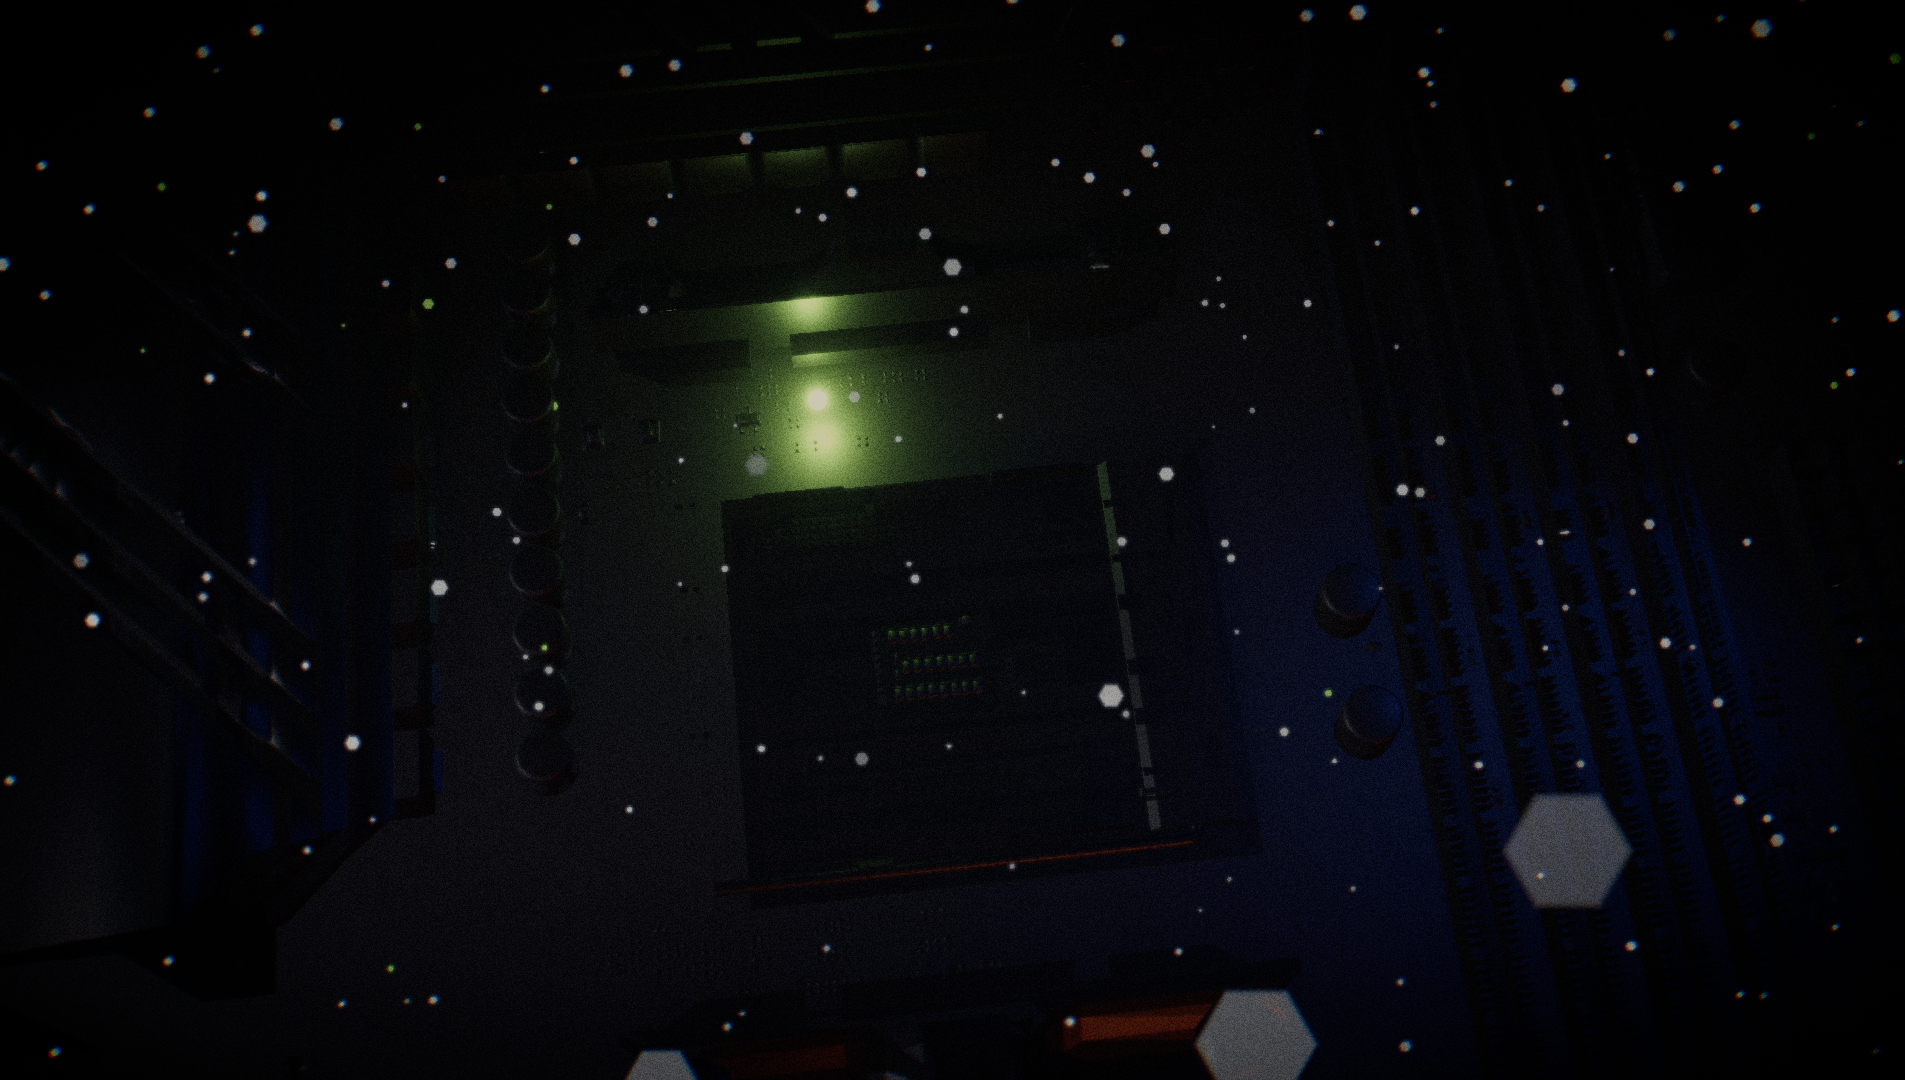
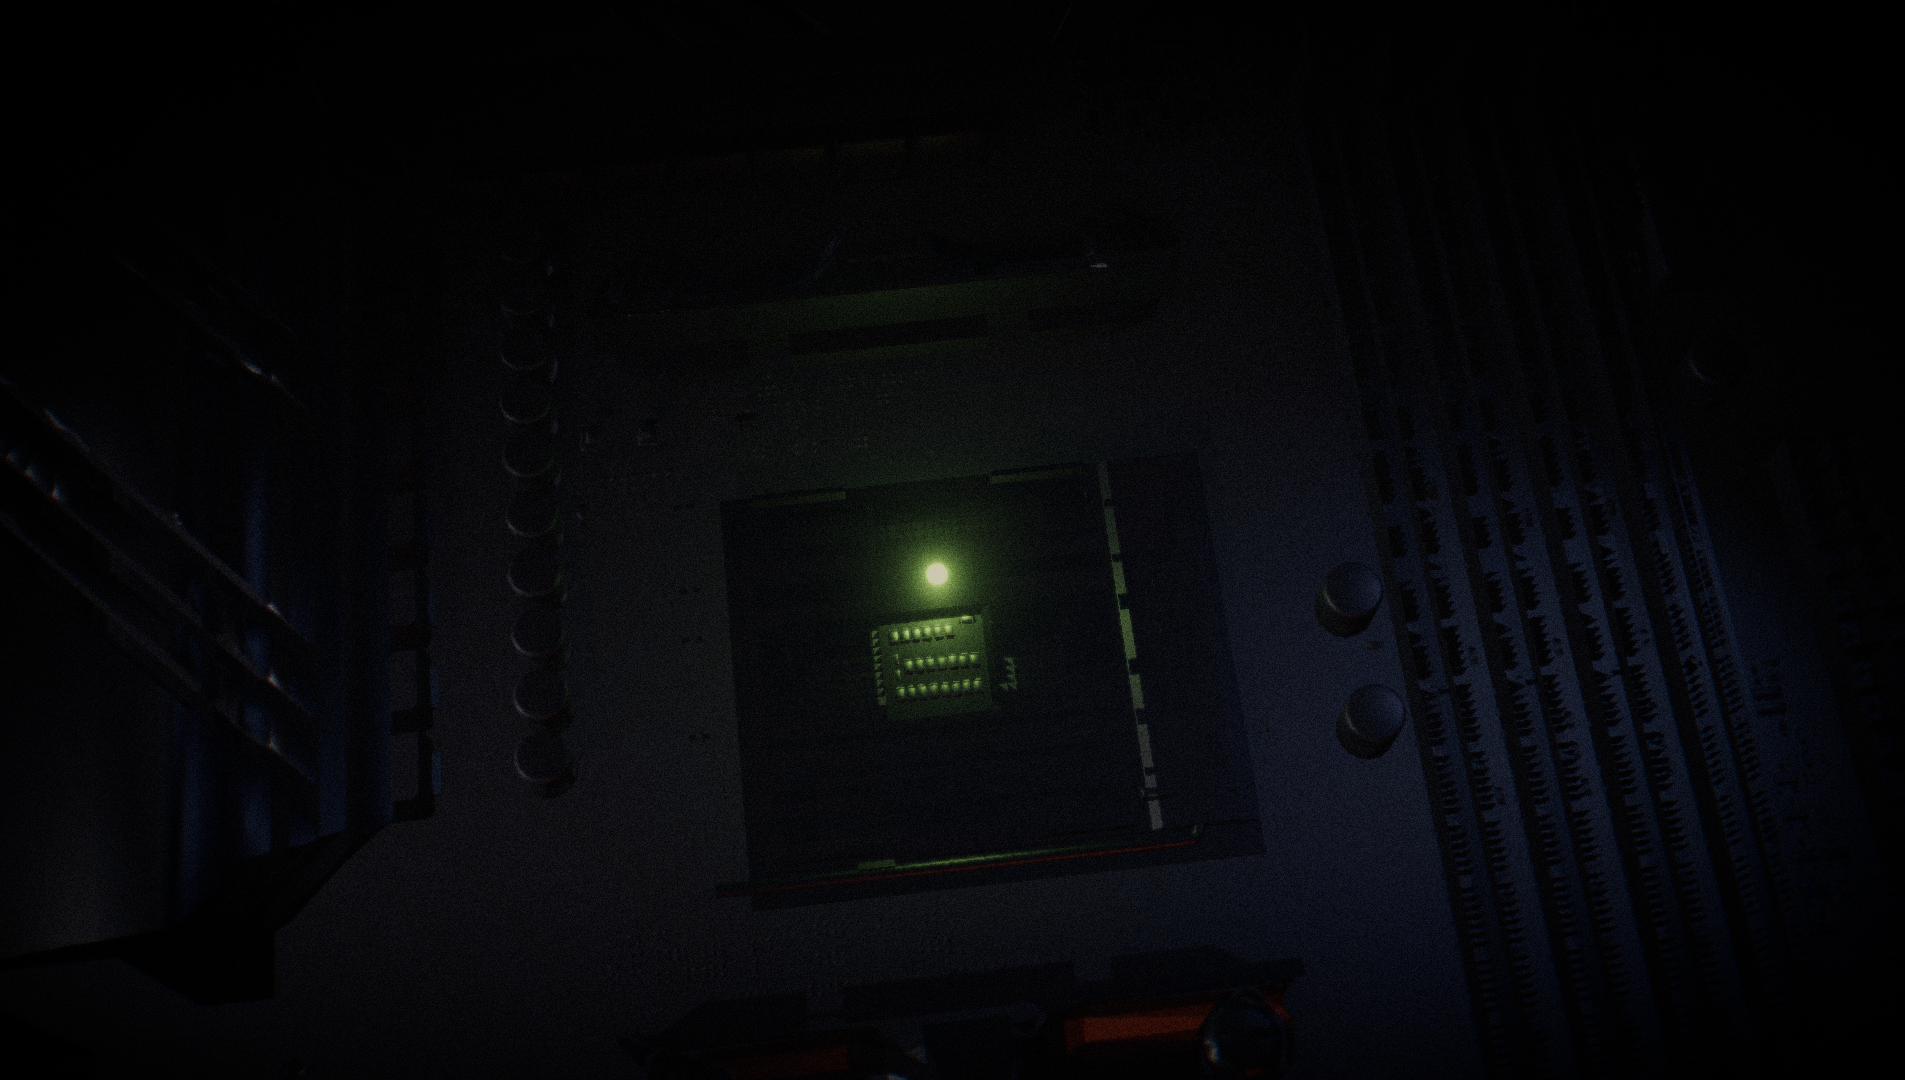
fix(scene): P3 gate fixes - dust restraint, act3 exposure, ember accent, GodRays proxy sun
Director gate 2026-07-27: near motes halved (size+alpha) with softer
edges + stronger defocus dimming + content-zone fade (screen-plan §8.9);
per-act exposure is now Director shot-table DATA (exp field, evidence
+0.5); fill desaturated (0x8f9fd8) and rim tightened (50/0.38) so the
glossy cluster stops returning saturated blue/orange specular (opus
pixel-forensics); Effects sections cache kills the 840 objs/s per-frame
allocation. GodRays: the pulse-head sun projecting edge-on at the
top-down pose NaN-wiped the frame (NaN ignores blend opacity) — replaced
with a proxy sun that follows the head while its projection is safe and
parks subpixel along the camera axis when not; act3/act4 restored. All
six act frames non-black with green signal.

diff --git a/components/scene/Effects.tsx b/components/scene/Effects.tsx
@@ -30,7 +30,7 @@ import {
   ToneMappingMode,
   VignetteEffect,
 } from 'postprocessing'
-import { useMemo } from 'react'
+import { useEffect, useMemo, useRef } from 'react'
 import * as THREE from 'three'
 import type { Director } from '../../lib/scene/director'
 import { GradeEffect, resolveActBlend } from '../../lib/scene/effects'
@@ -49,9 +49,25 @@ export function Effects({
 
   const smaa = useMemo(() => new SMAAEffect(), [])
 
+  // GodRays sun PROXY (execution-caught at the act-3 top-down, twice):
+  // when the real pulse-head projects edge-on/behind the camera the
+  // effect's screen-space math goes NaN and — because NaN ignores blend
+  // opacity — wipes the whole frame. The proxy follows the head while its
+  // projection is safe and parks far along the camera forward axis
+  // (subpixel, shaftless) when it is not, so the projection is ALWAYS
+  // finite.
+  const sunProxy = useMemo(() => {
+    const m = new THREE.Mesh(
+      new THREE.SphereGeometry(0.045, 12, 8),
+      new THREE.MeshBasicMaterial({ color: 0xa4eb53 })
+    )
+    m.frustumCulled = false
+    return m
+  }, [])
+
   const godRays = useMemo(() => {
     if (!(high && sun) || REDUCED) return null
-    return new GodRaysEffect(camera, sun, {
+    return new GodRaysEffect(camera, sunProxy, {
       density: 0.9,
       decay: 0.93,
       weight: 0.25,
@@ -60,7 +76,16 @@ export function Effects({
       kernelSize: KernelSize.SMALL,
       blur: true,
     })
-  }, [camera, sun, high])
+  }, [camera, sun, sunProxy, high])
+
+  const scene = useThree((s) => s.scene)
+  useEffect(() => {
+    if (!godRays) return
+    scene.add(sunProxy)
+    return () => {
+      scene.remove(sunProxy)
+    }
+  }, [godRays, scene, sunProxy])
 
   const dof = useMemo(() => {
     if (lean || REDUCED) return null
@@ -109,14 +134,47 @@ export function Effects({
     []
   )
 
+  // keys only change in buildKeys() — cache the section mapping by array
+  // identity instead of rebuilding 14 objects per frame (opus review)
+  const sectionsCache = useRef<{
+    keys: unknown
+    list: { p: number; section: string }[]
+  }>({ keys: null, list: [] })
+
+  const sunScratch = useRef(new THREE.Vector3())
+  const sunScratch2 = useRef(new THREE.Vector3())
+
   useFrame(() => {
+    if (godRays && sun) {
+      const v = sunScratch.current
+      sun.getWorldPosition(v)
+      // view-space depth: negative = in front of the camera
+      const vz = sunScratch2.current
+        .copy(v)
+        .applyMatrix4(camera.matrixWorldInverse).z
+      if (vz < -1.0) {
+        sunProxy.position.copy(v)
+      } else {
+        // park: far along the camera forward axis — projects to center,
+        // subpixel, no shafts, always finite
+        camera.getWorldDirection(sunScratch2.current)
+        sunProxy.position
+          .copy(camera.position)
+          .addScaledVector(sunScratch2.current, 120)
+      }
+    }
     // grade acts through the Director's keys (GRADE.md §2 table)
-    const sections = director.keys.map((k) => ({
-      p: k.p,
-      section: typeof k.at[1] === 'string' ? k.at[1] : 'contact',
-    }))
-    const blend = resolveActBlend(sections, scrollState.p)
-    grade.applyActBlend(blend)
+    if (sectionsCache.current.keys !== director.keys) {
+      sectionsCache.current = {
+        keys: director.keys,
+        list: director.keys.map((k) => ({
+          p: k.p,
+          section: typeof k.at[1] === 'string' ? k.at[1] : 'contact',
+        })),
+      }
+    }
+    const blend = resolveActBlend(sectionsCache.current.list, scrollState.p)
+    grade.applyActBlend(blend, director.exp)
     // the Director's continuous shot-table temp/sat own the final word
     grade.temp = director.temp
     grade.sat = director.sat

diff --git a/components/scene/DustField.tsx b/components/scene/DustField.tsx
@@ -33,6 +33,7 @@ export interface StratumCfg {
   sizeMin: number
   sizeMax: number
   opacity: number
+  zoneCull?: boolean
   speedMax: number
 }
 
@@ -60,19 +61,26 @@ export function dustStrata(low: boolean): StratumCfg[] {
     far,
     mid,
     {
+      // director gate 2026-07-27: near motes halved (size + alpha) — the
+      // corn model is bigger BUT softer AND dimmer; the board is the
+      // subject, dust is air
       count: 60,
       box: [8, 4, 8],
       center: [4, 2.4, 3.4],
-      sizeMin: 0.3,
-      sizeMax: 0.8,
-      opacity: 0.075,
+      sizeMin: 0.15,
+      sizeMax: 0.4,
+      opacity: 0.04,
       speedMax: 0.25,
+      zoneCull: true,
     },
   ]
 }
 
 const VERT = /* glsl */ `
 attribute float aSize;
+uniform vec4 uContentZone;
+uniform float uZoneCull;
+varying float vZoneFade;
 attribute float aPhase;
 attribute float aSpeed;
 attribute float aTint;
@@ -85,6 +93,7 @@ varying float vTwinkle;
 varying vec3 vWorld;
 varying float vDist;
 varying float vDefocus;
+varying float vZoneFade;
 
 // ashima 3D simplex noise (compact)
 vec4 permute(vec4 x) { return mod(((x * 34.0) + 1.0) * x, 289.0); }
@@ -152,6 +161,13 @@ void main() {
   gl_PointSize = size * uSizeScale / max(-mv.z, 0.001);
   vTint = aTint;
   gl_Position = projectionMatrix * mv;
+  // screen-plan §8.9: near motes fade to 0 over the content-safe zone
+  vec2 ndc = gl_Position.xy / max(gl_Position.w, 1e-4);
+  float inX = smoothstep(uContentZone.x - 0.15, uContentZone.x, ndc.x)
+            * (1.0 - smoothstep(uContentZone.z, uContentZone.z + 0.15, ndc.x));
+  float inY = smoothstep(uContentZone.y - 0.15, uContentZone.y, ndc.y)
+            * (1.0 - smoothstep(uContentZone.w, uContentZone.w + 0.15, ndc.y));
+  vZoneFade = 1.0 - uZoneCull * inX * inY;
 }
 `
 
@@ -180,7 +196,7 @@ void main() {
   vec2 c = gl_PointCoord - 0.5;
   float df = polygonDf(c) * 2.0;
   // edge softness scales with defocus: in-focus crisp, out-of-focus soft
-  float disc = smoothstep(0.5, 0.5 - mix(0.05, 0.3, vDefocus), df);
+  float disc = smoothstep(0.5, 0.5 - mix(0.06, 0.45, vDefocus), df);
   // brightness boost only inside the key shaft (hyperfocus motif)
   vec3 rel = vWorld - uConeOrigin;
   float d = length(rel);
@@ -189,7 +205,7 @@ void main() {
   float fade = smoothstep(0.25, 1.1, vDist) * (1.0 - smoothstep(22.0, 32.0, vDist));
   vec3 col = mix(uBone, uSignal, vTint);
   // out-of-focus = dimmer
-  float a = disc * uOpacity * vTwinkle * fade * mix(1.0, 0.4, vDefocus) * (1.0 + cone * 1.6);
+  float a = disc * uOpacity * vTwinkle * fade * mix(1.0, 0.22, vDefocus) * (1.0 + cone * 1.6) * vZoneFade;
   gl_FragColor = vec4(col, a);
 }
 `
@@ -233,6 +249,10 @@ function buildStratum(cfg: StratumCfg) {
       uConeAxis: { value: coneAxis },
       uConeCos: { value: Math.cos(0.55) },
       uConeLen: { value: KEY_POS.distanceTo(KEY_TGT) },
+      // hero wordmark occupies the lower-left content zone (NDC rect
+      // x0,y0,x1,y1); per-act zones arrive with the Task 19/20 DOM
+      uContentZone: { value: new THREE.Vector4(-1.0, -1.0, 0.15, 0.05) },
+      uZoneCull: { value: cfg.zoneCull ? 1 : 0 },
     },
     vertexShader: VERT,
     fragmentShader: FRAG,

diff --git a/lib/scene/director.ts b/lib/scene/director.ts
@@ -26,6 +26,9 @@ export type ShotAnchor =
 
 export interface Shot {
   at: ShotAnchor
+  /** per-act exposure offset in stops (director gate 2026-07-27: runtime
+      per-act exposure is the Director's knob, recorded here as data) */
+  exp?: number
   pos: [number, number, number]
   tgt: [number, number, number]
   bloom: number
@@ -166,6 +169,7 @@ export function buildShots(): Shot[] {
     // transit map, the socket as the central interchange
     {
       at: ['sec', 'evidence'],
+      exp: 0.5,
       pos: [S[0] + 0.4, 13.5, S[2] + 0.6],
       tgt: [S[0], SURFACE_Y, S[2]],
       bloom: 0.55,
@@ -317,6 +321,7 @@ export interface SampleResult {
   ap: number
   fov: number
   temp: number
+  exp: number
   sat: number
   fog: number
   roll: number
@@ -360,6 +365,7 @@ export function sampleKeys(
     ap: L(a.ap, b.ap, t),
     fov: L(a.fov, b.fov, t),
     temp: L(a.temp ?? 0, b.temp ?? 0, t),
+    exp: L(a.exp ?? 0, b.exp ?? 0, t),
     sat: L(a.sat ?? 1, b.sat ?? 1, t),
     fog: L(a.fog ?? 0.03, b.fog ?? 0.03, t),
     roll: L(a.roll ?? 0, b.roll ?? 0, t),
@@ -391,6 +397,7 @@ export class Director {
     pos: [8.2, 2.0, 5.4],
     tgt: [-1.2, 1.0, 0.4],
     bloom: 0.45,
+    exp: 0,
     ap: 1,
     fov: 20,
     temp: 0.1,
@@ -414,6 +421,8 @@ export class Director {
   ramp = 0
   focusDist = 7.2
   temp = 0.1
+  /** per-act exposure offset (stops), lerped from the shot table */
+  exp = 0
   sat = 1.0
   fogDensity = 0.028
   roll = 0
@@ -480,6 +489,7 @@ export class Director {
     this.shot.ap = s.ap
     this.shot.fov = s.fov
     this.shot.temp = s.temp
+    this.shot.exp = s.exp
     this.shot.sat = s.sat
     this.shot.fog = s.fog
     this.shot.roll = s.roll
@@ -574,6 +584,7 @@ export class Director {
     // grade springs
     const kG = 1 - Math.exp(-dt * 2.8)
     this.temp += (s.temp - this.temp) * kG
+    this.exp += (s.exp - this.exp) * kG
     this.sat += (s.sat - this.sat) * kG
     this.fogDensity += (s.fog - this.fogDensity) * kG
     this.vignette += (s.vig - this.vignette) * kG

diff --git a/lib/scene/effects.ts b/lib/scene/effects.ts
@@ -244,12 +244,12 @@ export class GradeEffect extends Effect {
      the blue curve mixes its two atlas rows GPU-side). The Director's own
      continuous temp/sat (shot-table authored) take precedence over the act
      table when the caller sets them after this. */
-  applyActBlend(blend: ActBlend): void {
+  applyActBlend(blend: ActBlend, expOffset = 0): void {
     const a = GRADE_ACTS[blend.a]
     const b = GRADE_ACTS[blend.b]
     if (!(a && b)) return
     const mix = (x: number, y: number): number => x + (y - x) * blend.t
-    this.setU('uExp', mix(a.exp, b.exp))
+    this.setU('uExp', mix(a.exp, b.exp) + expOffset)
     this.setU('uContrast', mix(a.contrast, b.contrast))
     this.setU('uPivot', mix(a.pivot, b.pivot))
     this.setU('uFloor', mix(a.floor, b.floor))

diff --git a/lib/scene/rig.ts b/lib/scene/rig.ts
@@ -23,7 +23,7 @@ export const FILL_POS = new THREE.Vector3(6, SURFACE_Y + 4.5, -4)
 export const RIM_POS = new THREE.Vector3(2.5, SURFACE_Y + 1.8, 9.5)
 
 export const KEY_COLOR = 0xfff6ec
-export const FILL_COLOR = 0x3552e8
+export const FILL_COLOR = 0x8f9fd8 // desat toward white: pure #3552E8 returned saturated blue specular on the glossy cluster (opus review + director gate)
 export const RIM_COLOR = 0xff6b1a
 export const SIGNAL = 0xa4eb53
 export const BONE = 0xf2f2f5

diff --git a/components/scene/SubstrateSet.tsx b/components/scene/SubstrateSet.tsx
@@ -358,8 +358,8 @@ export function SubstrateSet({
         ref={rim}
         position={RIM_POS.toArray()}
         color={RIM_COLOR}
-        intensity={90}
-        angle={0.55}
+        intensity={50}
+        angle={0.38}
         penumbra={1}
         decay={2}
       />
